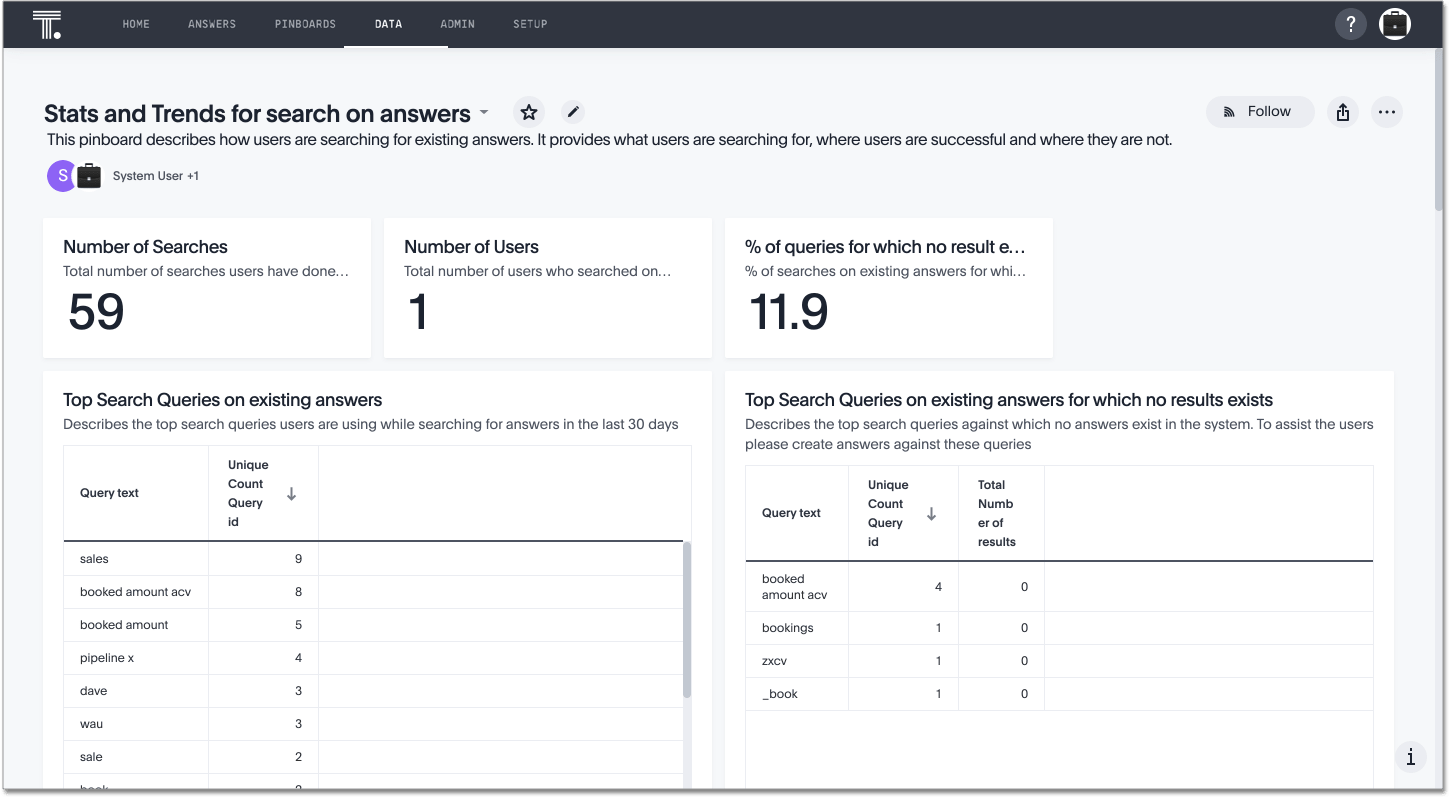
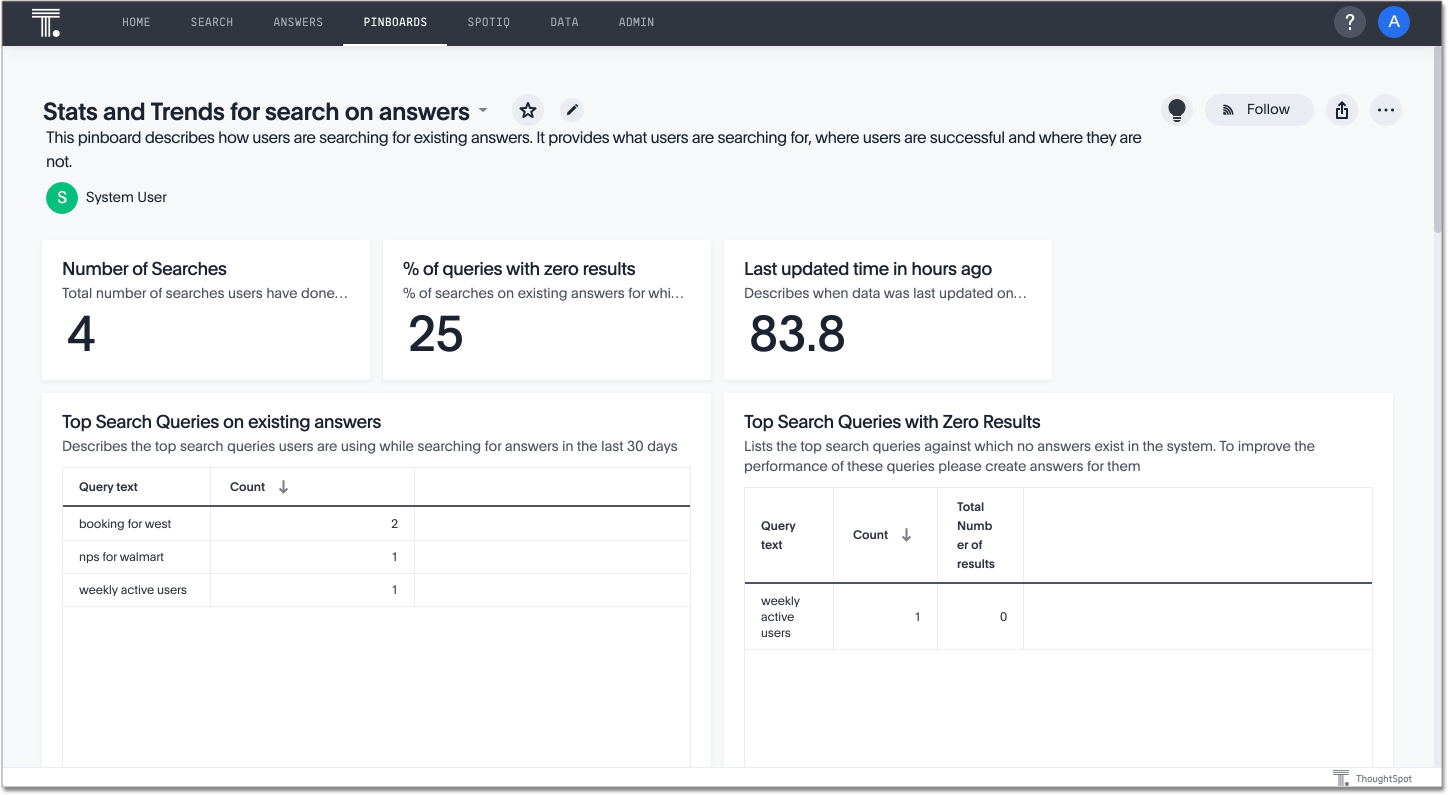
analyst pinboard update

diff --git a/_admin/thoughtspot-one/query-intelligence-pinboard.md b/_admin/thoughtspot-one/query-intelligence-pinboard.md
@@ -1,7 +1,7 @@
 ---
 title: [Stats and Trends for Search on Answers Pinboard]
 summary: "The Stats and Trends for Search on Answers Pinboard describes how users are searching for existing Answers and Pinboards. It specifies what users are searching for, where users are successful, and where they are not."
-last_updated: 1/15/2021
+last_updated: 1/21/2021
 sidebar: mydoc_sidebar
 permalink: /:collection/:path.html
 ---
@@ -12,16 +12,14 @@ To access the **Stats and Trends for Search on Answers** Pinboard, search for "S
 
 The **Stats and Trends for Search on Answers** Pinboard contains the following visualizations:
 - [Number of searches](#number-of-searches)
-- [Number of users](#number-of-users)
-- [% of queries for which no result exists](#no-result-queries)
+- [% of queries with zero results](#no-result-queries)
+- [Last updated time](#last-updated)
 - [Top Search Queries on existing answers](#top-search-existing)
-- [Top Search Queries on existing answers for which no result exists](#top-search-existing-no-result)
+- [Top Search Queries on existing answers with zero results](#top-search-existing-no-result)
 - [Top Search Queries on existing answers where the user did not find anything useful](#top-search-not-useful)
-- [Top Users who searched for answers](#top-users)
 - [Weekly Searches on answers](#weekly-searches)
 - [Top Answers](#top-answers)
 - [Weekly % of search queries on answers for which no answers exist](#weekly-queries-no-answer)
-- [Weekly Active Users](#wau)
 - [Poorly performing search queries for answers](#poor-performance)
 
 {% include note.html content="Some or all of the visualizations on this Pinboard may be empty, if you do not have Search on Answers on in your environment, or if it is newly on, and few users have searched on it. To see the statistics on how your organization uses Search Answers, contact ThoughtSpot Support." %}
@@ -32,29 +30,25 @@ The **Stats and Trends for Search on Answers** Pinboard contains the following v
 ## Number of searches
 This headline specifies the number of searches users have done on existing Answers and Pinboards in the last 7 days.
 
-{: id="number-of-users"}
-## Number of users
-This headline specifies the total number of users who searched on existing Answers and Pinboards in the last 7 days.
-
 {: id="no-result-queries"}
-## % of queries for which no result exists
+## % of queries with zero results
 This headline specifies the percentage of searches on existing Answers and Pinboards that had no results. The lower the percentage of searches with no results, the better the user experience. If you have a high percentage of queries without results, consider building more Answers and Pinboards, or empower more users to build their own Answers and Pinboards by searching your data.
+
+{: id="last-updated"}
+## Last updated time in hours ago
+Shows the number of hours it has been since this Pinboard was automatically updated with new data.
 
 {: id="top-search-existing"}
 ## Top Search Queries on existing answers
 This visualization lists users' top search queries while searching for Answers in the last 30 days.
 
 {: id="top-search-existing-no-result"}
-## Top Search Queries on existing answers for which no result exists
+## Top Search Queries with zero results
 This visualization lists users' top search queries that had no results. These are the most common Answers and Pinboards users search for but do not find. Consider building Answers and Pinboards that answer these questions, or empower more users to build their own Answers and Pinboards by searching your data.
 
 {: id="top-search-not-useful"}
-## Top Search Queries on existing answers where the user did not find anything useful
+## Top Search Queries on existing answers where the user did not find any useful result
 This visualization lists users' top search queries that did not result in a useful Answer or Pinboard. The users did not click on any of the results. Consider building Answers and Pinboards that better answer these questions, or empower these users to build their own Answers and Pinboards by searching your data.
-
-{: id="top-users"}
-## Top Users who searched for answers
-This visualization lists the top 10 users who searched for Answers and Pinboards in the last 30 days.
 
 {: id="weekly-searches"}
 ## Weekly Searches on answers
@@ -68,10 +62,6 @@ This visualization lists the top Answers and Pinboards that users who searched f
 ## Weekly % of search queries on answers for which no answers exist
 This visualization shows the percentage of searches on existing Answers and Pinboards that had no results, on a weekly basis. The lower the percentage of searches with no results, the better the user experience. If you have a high percentage of queries without results, consider building more Answers and Pinboards, or empower more users to build their own Answers and Pinboards by searching your data.
 
-{: id="wau"}
-## Weekly Active Users
-This visualization shows the total number of users who are searching for Answers and Pinboards, on a weekly basis.
-
 {: id="poor-performance"}
-## Poorly performing search queries for answers
+## Top search queries with poor performance
 This visualization lists queries in the last 30 days for which users browsed multiple Answers and Pinboards, before finding the right Answer or Pinboard.
